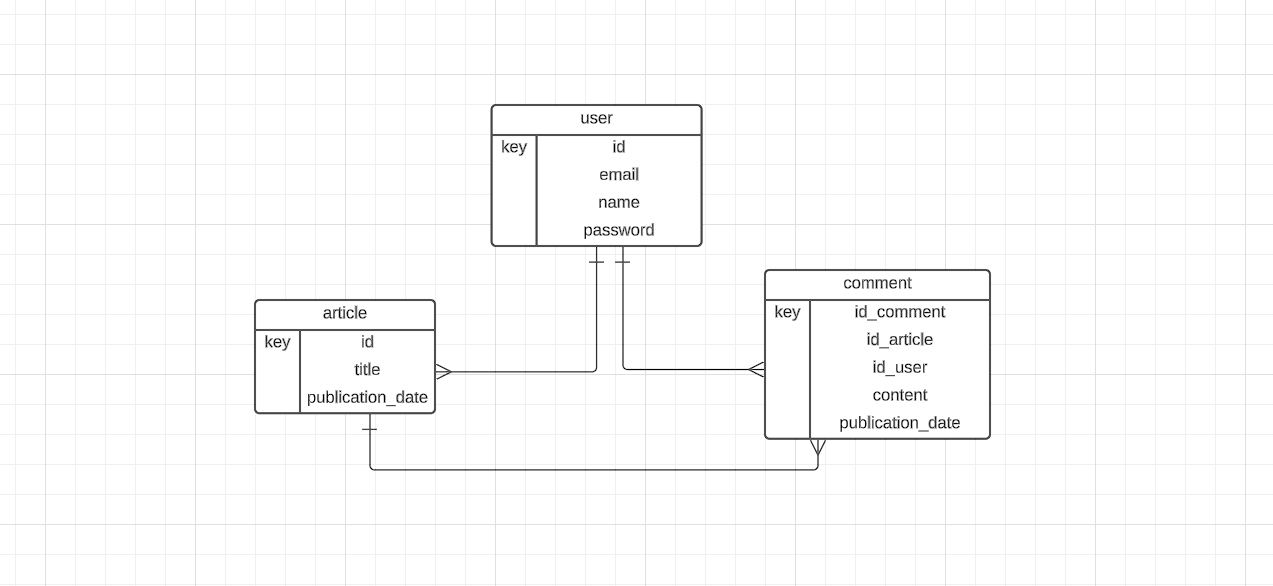
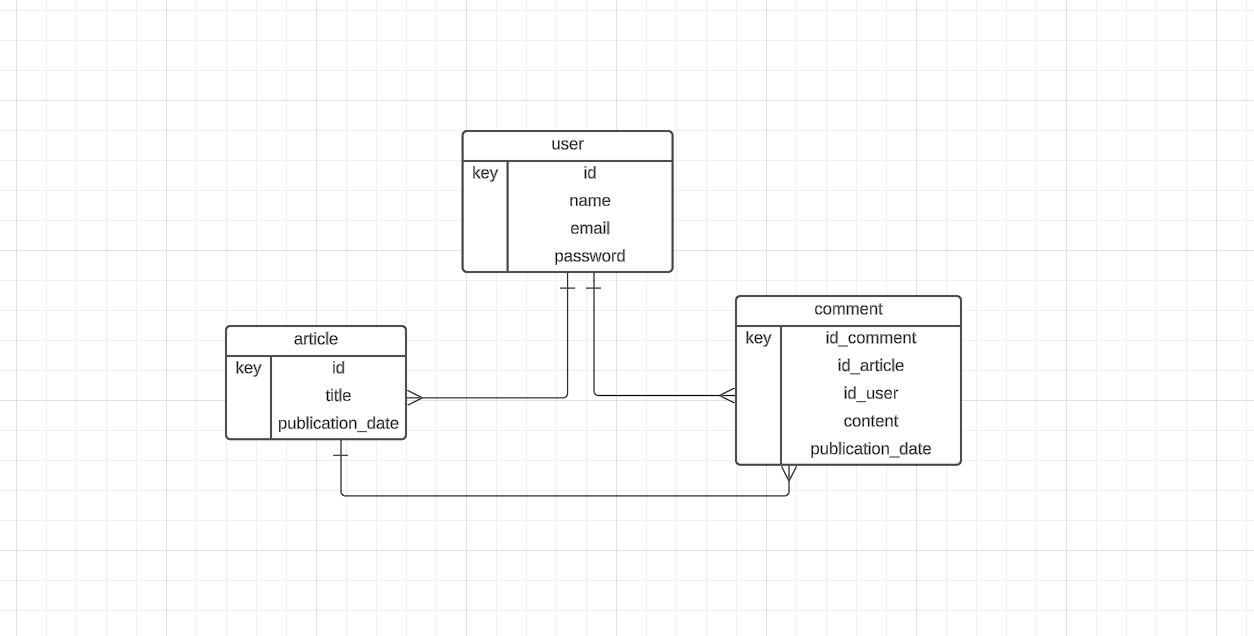
Se modifico los scrpit de la base de datos

diff --git a/databases/facundo91-1495/script.md b/databases/facundo91-1495/script.md
@@ -1,31 +1,31 @@
 ## Script SQL para crear las tablas
 
 ```sql
--- Tabla Usuario
-CREATE TABLE Usuario (
-    id_usuario INT PRIMARY KEY,
-    nombre VARCHAR(50),
-    correo_electronico VARCHAR(50),
-    contraseña VARCHAR(50)
+-- Table User
+CREATE TABLE User (
+    id int NOT NULL AUTO_INCREMENT PRIMARY KEY,
+    name varchar(50),
+    email varchar(50),
+    password varchar(50)
 );
 
--- Tabla Artículo
-CREATE TABLE Artículo (
-    id_articulo INT PRIMARY KEY,
-    título VARCHAR(100),
-    contenido TEXT,
-    fecha_publicacion DATE,
-    id_usuario INT,
-    FOREIGN KEY (id_usuario) REFERENCES Usuario(id_usuario)
+-- Table Article
+CREATE TABLE Article (
+    id int NOT NULL AUTO_INCREMENT PRIMARY KEY,
+    title varchar(100),
+    content text,
+    publication_date date,
+    user_id int,
+    KEY user_id_xid (user_id)
 );
 
--- Tabla Comentario
-CREATE TABLE Comentario (
-    id_comentario INT PRIMARY KEY,
-    contenido TEXT,
-    fecha_publicacion DATE,
-    id_articulo INT,
-    id_usuario INT,
-    FOREIGN KEY (id_articulo) REFERENCES Artículo(id_articulo),
-    FOREIGN KEY (id_usuario) REFERENCES Usuario(id_usuario)
+-- Table Comment
+CREATE TABLE Comment (
+    id int NOT NULL AUTO_INCREMENT PRIMARY KEY,
+    content text,
+    publication_date date,
+    article_id int,
+    user_id int,
+    KEY article_id_xid (article_id),
+    KEY user_id_xid (user_id)
 );
